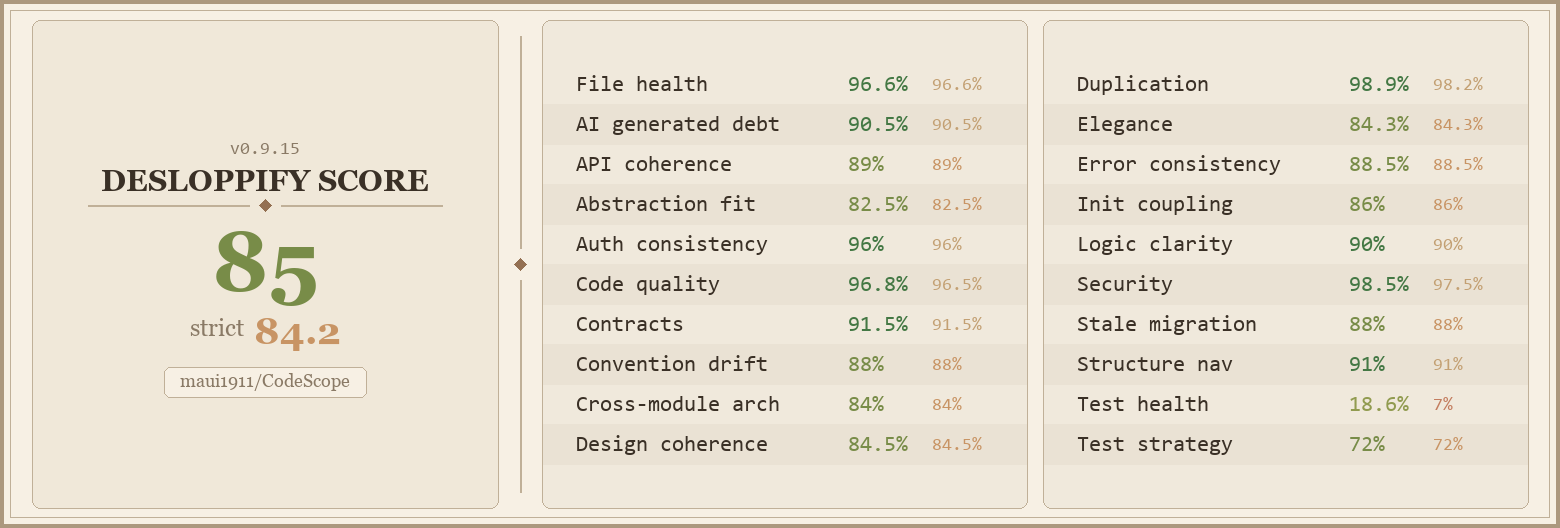
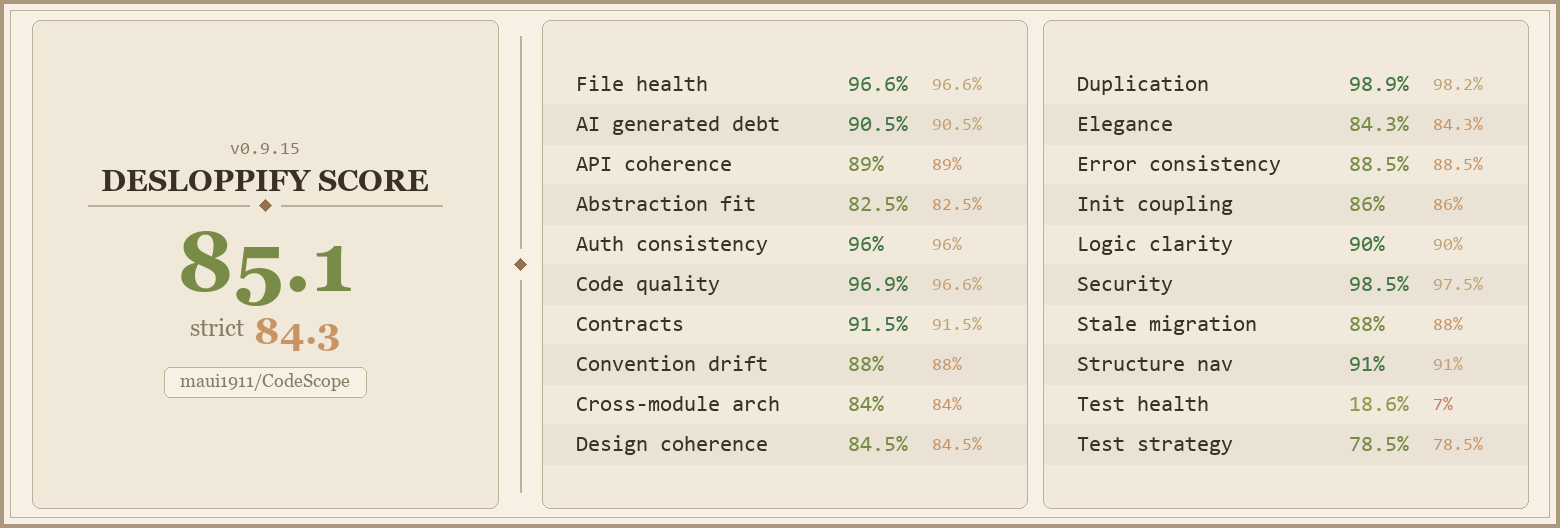
desloppify: split shared-file convention outliers + skip ProcessRunner
- Split IPullRequestService.cs into 3 files (IPullRequestService.cs,
  IGitHubPullRequestService.cs, IGiteaPullRequestService.cs) so the
  two marker sub-interfaces no longer share a file with the canonical
  contract — matches the one-type-per-file convention everywhere else
  in Core/Services/.
- Split Ui/Converters/ToastConverters.cs into three sibling files
  (SeverityBrushConverter.cs, SeverityIconConverter.cs,
  ProgressToWidthConverter.cs), one IValueConverter per file. Matches
  the existing NullToVisibilityConverter / TabStatusToBrushConverter
  / ZeroToHidden / ZeroToVisible / InverseBoolToVisibility layout in
  the same folder.
- ProcessRunner partial-narrowing review: documented the intentional
  partial catch via wontfix attestation. Win32Exception/FileNotFound
  is the only case worth a typed user-visible Result; other exceptions
  bubble to the AppDomain unhandled handler so crash.log captures them.

Changed region(s): [[0.0923, 0.4242, 0.2462, 0.5758], [0.8615, 0.8182, 0.9538, 0.8485], [0.1846, 0.6364, 0.2154, 0.6667]]

diff --git a/src/CodeScope.Ui/Converters/SeverityIconConverter.cs b/src/CodeScope.Ui/Converters/SeverityIconConverter.cs
@@ -1,0 +1,45 @@
+using System.Globalization;
+using System.Windows.Data;
+using System.Windows.Media;
+using NoScope.CodeScope.Ui.Services;
+
+namespace NoScope.CodeScope.Ui.Converters;
+
+/// <summary>
+/// Picks the right <see cref="Geometry"/> path for the severity icon. The four
+/// glyphs match the SVGs in spec §03 (info dot, ok check, warn triangle, err cross).
+/// </summary>
+[ValueConversion(typeof(ToastSeverity), typeof(Geometry))]
+public sealed class SeverityIconConverter : IValueConverter
+{
+    // Icons are drawn into a 12×12 viewbox so a single Path Data string fits inside
+    // the 24×24 tinted tile without further scaling. Strokes ride on the parent Path's
+    // Stroke + StrokeThickness so the color flows from the severity converter above.
+    // Cached + Frozen so every toast in the stack shares the same Geometry instance —
+    // Geometry.Parse is non-trivial and the WPF render thread plays nicer with frozen
+    // freezables, so this is a "free" win.
+    private static readonly Geometry InfoIcon = FreezeParse("M 6 1.5 A 4.5 4.5 0 1 1 5.999 1.5 Z M 6 4 L 6 7");
+    private static readonly Geometry OkIcon = FreezeParse("M 2.5 6.5 L 5 9 L 10 4");
+    private static readonly Geometry WarnIcon = FreezeParse("M 6 1.5 L 11 10 L 1 10 Z M 6 5 L 6 8");
+    private static readonly Geometry ErrIcon = FreezeParse("M 6 1.5 A 4.5 4.5 0 1 1 5.999 1.5 Z M 3.5 3.5 L 8.5 8.5 M 8.5 3.5 L 3.5 8.5");
+
+    private static Geometry FreezeParse(string data)
+    {
+        var g = Geometry.Parse(data);
+        if (g.CanFreeze) { g.Freeze(); }
+        return g;
+    }
+
+    public object Convert(object? value, Type targetType, object? parameter, CultureInfo culture)
+        => value switch
+        {
+            ToastSeverity.Info => InfoIcon,
+            ToastSeverity.Ok => OkIcon,
+            ToastSeverity.Warn => WarnIcon,
+            ToastSeverity.Err => ErrIcon,
+            _ => InfoIcon,
+        };
+
+    public object ConvertBack(object? value, Type targetType, object? parameter, CultureInfo culture)
+        => throw new NotSupportedException();
+}

diff --git a/src/CodeScope.Ui/Converters/SeverityBrushConverter.cs b/src/CodeScope.Ui/Converters/SeverityBrushConverter.cs
@@ -1,0 +1,43 @@
+using System.Globalization;
+using System.Windows;
+using System.Windows.Data;
+using System.Windows.Media;
+using NoScope.CodeScope.Ui.Services;
+
+namespace NoScope.CodeScope.Ui.Converters;
+
+/// <summary>
+/// Resolves the per-severity foreground brush from the static resource dictionary.
+/// Each severity owns three brushes (foreground / tint bg / tint border) — using a
+/// shared converter with a parameter (<c>Fg</c>, <c>Bg</c>, <c>Border</c>) keeps the
+/// XAML compact instead of repeating four <c>DataTrigger</c> blocks per visual slot.
+/// </summary>
+[ValueConversion(typeof(ToastSeverity), typeof(Brush))]
+public sealed class SeverityBrushConverter : IValueConverter
+{
+    public object? Convert(object? value, Type targetType, object? parameter, CultureInfo culture)
+    {
+        if (value is not ToastSeverity severity) { return Brushes.Transparent; }
+        var role = parameter as string ?? "Fg";
+        var key = (severity, role) switch
+        {
+            (ToastSeverity.Info, "Fg") => "Severity.Info",
+            (ToastSeverity.Info, "Bg") => "Severity.Info.Bg",
+            (ToastSeverity.Info, "Border") => "Severity.Info.Border",
+            (ToastSeverity.Ok, "Fg") => "Severity.Ok",
+            (ToastSeverity.Ok, "Bg") => "Severity.Ok.Bg",
+            (ToastSeverity.Ok, "Border") => "Severity.Ok.Border",
+            (ToastSeverity.Warn, "Fg") => "Severity.Warn",
+            (ToastSeverity.Warn, "Bg") => "Severity.Warn.Bg",
+            (ToastSeverity.Warn, "Border") => "Severity.Warn.Border",
+            (ToastSeverity.Err, "Fg") => "Severity.Err",
+            (ToastSeverity.Err, "Bg") => "Severity.Err.Bg",
+            (ToastSeverity.Err, "Border") => "Severity.Err.Border",
+            _ => "Severity.Info",
+        };
+        return Application.Current.TryFindResource(key) as Brush ?? Brushes.Transparent;
+    }
+
+    public object ConvertBack(object? value, Type targetType, object? parameter, CultureInfo culture)
+        => throw new NotSupportedException();
+}

diff --git a/src/CodeScope.Core/Services/IPullRequestService.cs b/src/CodeScope.Core/Services/IPullRequestService.cs
@@ -3,15 +3,16 @@ using NoScope.CodeScope.Core.Models;
 namespace NoScope.CodeScope.Core.Services;
 
 /// <summary>
-/// Shells out to the <c>gh</c> CLI to query GitHub PRs for a worktree's branch.
-/// Phase 5 starts with a single read path; mutations (create/merge) arrive later.
+/// Shells out to a forge CLI (gh / tea) to query and create pull requests for a worktree's
+/// branch. <see cref="IGitHubPullRequestService"/> and <see cref="IGiteaPullRequestService"/>
+/// are marker sub-interfaces so DI can resolve providers by role.
 /// </summary>
 public interface IPullRequestService
 {
     /// <summary>
     /// Returns the currently open PR for <paramref name="branch"/> on the repo at
     /// <paramref name="repoPath"/>, or <c>null</c> when none exists.
-    /// Fails only on gh invocation errors (gh missing, auth, parse).
+    /// Fails only on CLI invocation errors (missing binary, auth, parse).
     /// </summary>
     Task<Result<PullRequestInfo?>> GetOpenPrForBranchAsync(string repoPath, string branch, CancellationToken ct = default);
 
@@ -22,16 +23,3 @@ public interface IPullRequestService
     /// </summary>
     Task<Result<PullRequestInfo>> CreateForBranchAsync(string repoPath, string branch, string? title, string? body, CancellationToken ct = default);
 }
-
-/// <summary>
-/// Marker interface for the GitHub-backed provider (<c>gh</c> CLI). Exists so
-/// <see cref="PullRequestService"/> can depend on the provider role rather than the
-/// concrete class; also lets tests swap a stub via DI.
-/// </summary>
-public interface IGitHubPullRequestService : IPullRequestService { }
-
-/// <summary>
-/// Marker interface for the Gitea-backed provider (<c>tea</c> CLI). Role sibling of
-/// <see cref="IGitHubPullRequestService"/>.
-/// </summary>
-public interface IGiteaPullRequestService : IPullRequestService { }

diff --git a/src/CodeScope.Ui/Converters/ProgressToWidthConverter.cs b/src/CodeScope.Ui/Converters/ProgressToWidthConverter.cs
@@ -1,0 +1,29 @@
+using System.Globalization;
+using System.Windows.Data;
+
+namespace NoScope.CodeScope.Ui.Converters;
+
+/// <summary>
+/// Multiplies a 0..1 progress fraction by a target width (passed as <c>parameter</c>
+/// so the same converter handles meters of any width). Used by the meter strip so its
+/// inner fill drains right-to-left as the toast's <c>Progress</c> ticks down. Returns
+/// 0 for non-positive inputs to avoid layout warnings.
+/// </summary>
+[ValueConversion(typeof(double), typeof(double))]
+public sealed class ProgressToWidthConverter : IValueConverter
+{
+    public object Convert(object? value, Type targetType, object? parameter, CultureInfo culture)
+    {
+        var progress = value as double? ?? 0;
+        var max = parameter switch
+        {
+            double d => d,
+            string s when double.TryParse(s, NumberStyles.Float, CultureInfo.InvariantCulture, out var sd) => sd,
+            _ => 380.0,
+        };
+        return Math.Max(0, Math.Min(1, progress)) * max;
+    }
+
+    public object ConvertBack(object? value, Type targetType, object? parameter, CultureInfo culture)
+        => throw new NotSupportedException();
+}

diff --git a/src/CodeScope.Core/Services/IGitHubPullRequestService.cs b/src/CodeScope.Core/Services/IGitHubPullRequestService.cs
@@ -1,0 +1,8 @@
+namespace NoScope.CodeScope.Core.Services;
+
+/// <summary>
+/// Marker interface for the GitHub-backed provider (<c>gh</c> CLI). Exists so
+/// <see cref="PullRequestService"/> can depend on the provider role rather than the
+/// concrete class; also lets tests swap a stub via DI.
+/// </summary>
+public interface IGitHubPullRequestService : IPullRequestService { }

diff --git a/src/CodeScope.Core/Services/IGiteaPullRequestService.cs b/src/CodeScope.Core/Services/IGiteaPullRequestService.cs
@@ -1,0 +1,7 @@
+namespace NoScope.CodeScope.Core.Services;
+
+/// <summary>
+/// Marker interface for the Gitea-backed provider (<c>tea</c> CLI). Role sibling of
+/// <see cref="IGitHubPullRequestService"/>.
+/// </summary>
+public interface IGiteaPullRequestService : IPullRequestService { }
